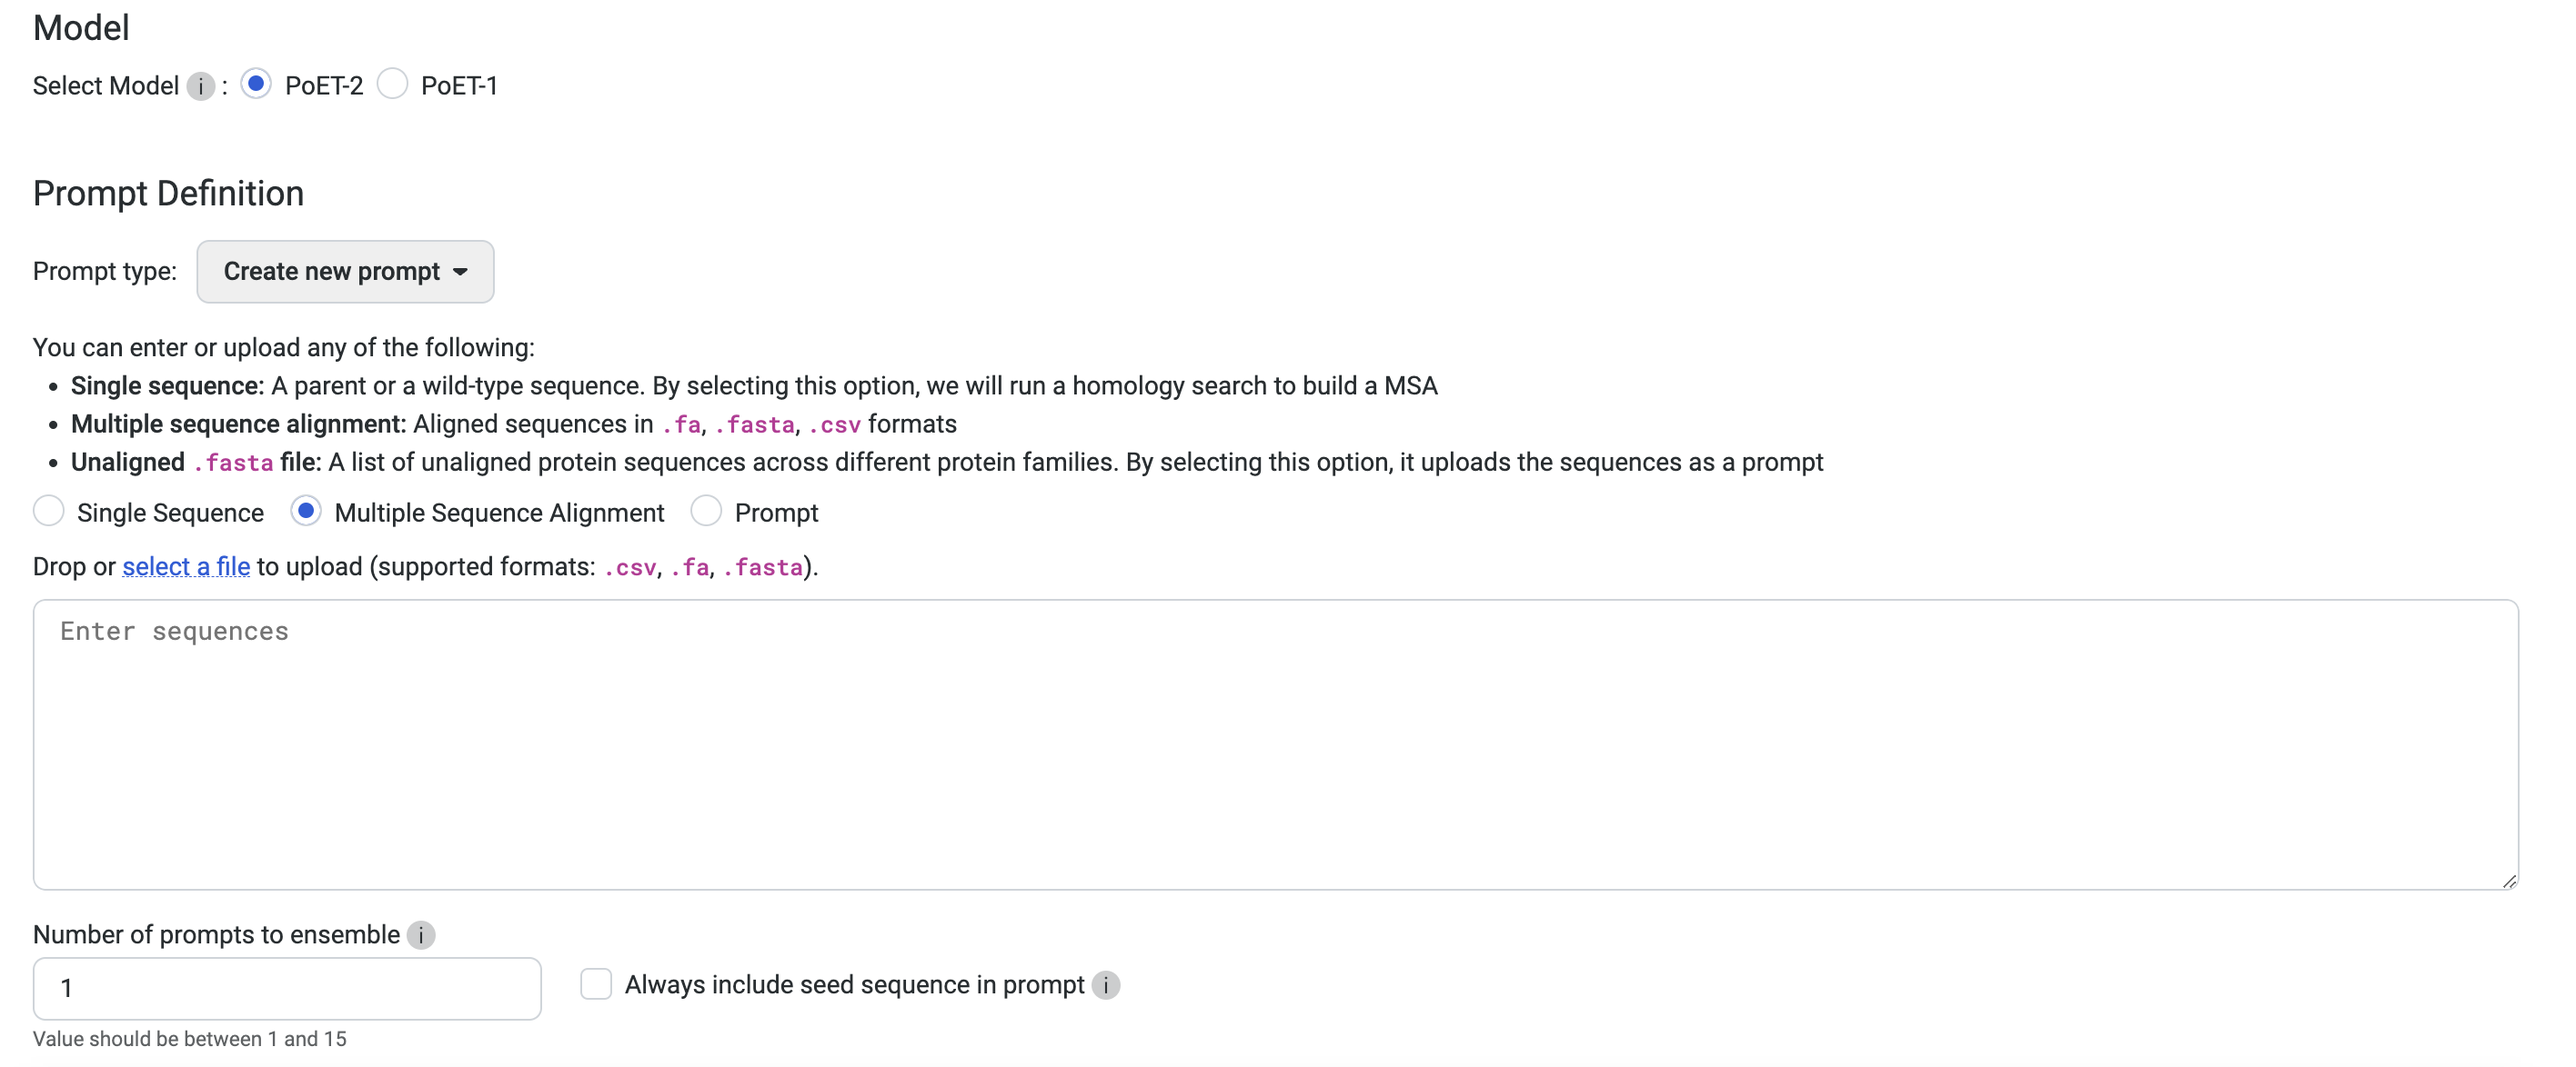
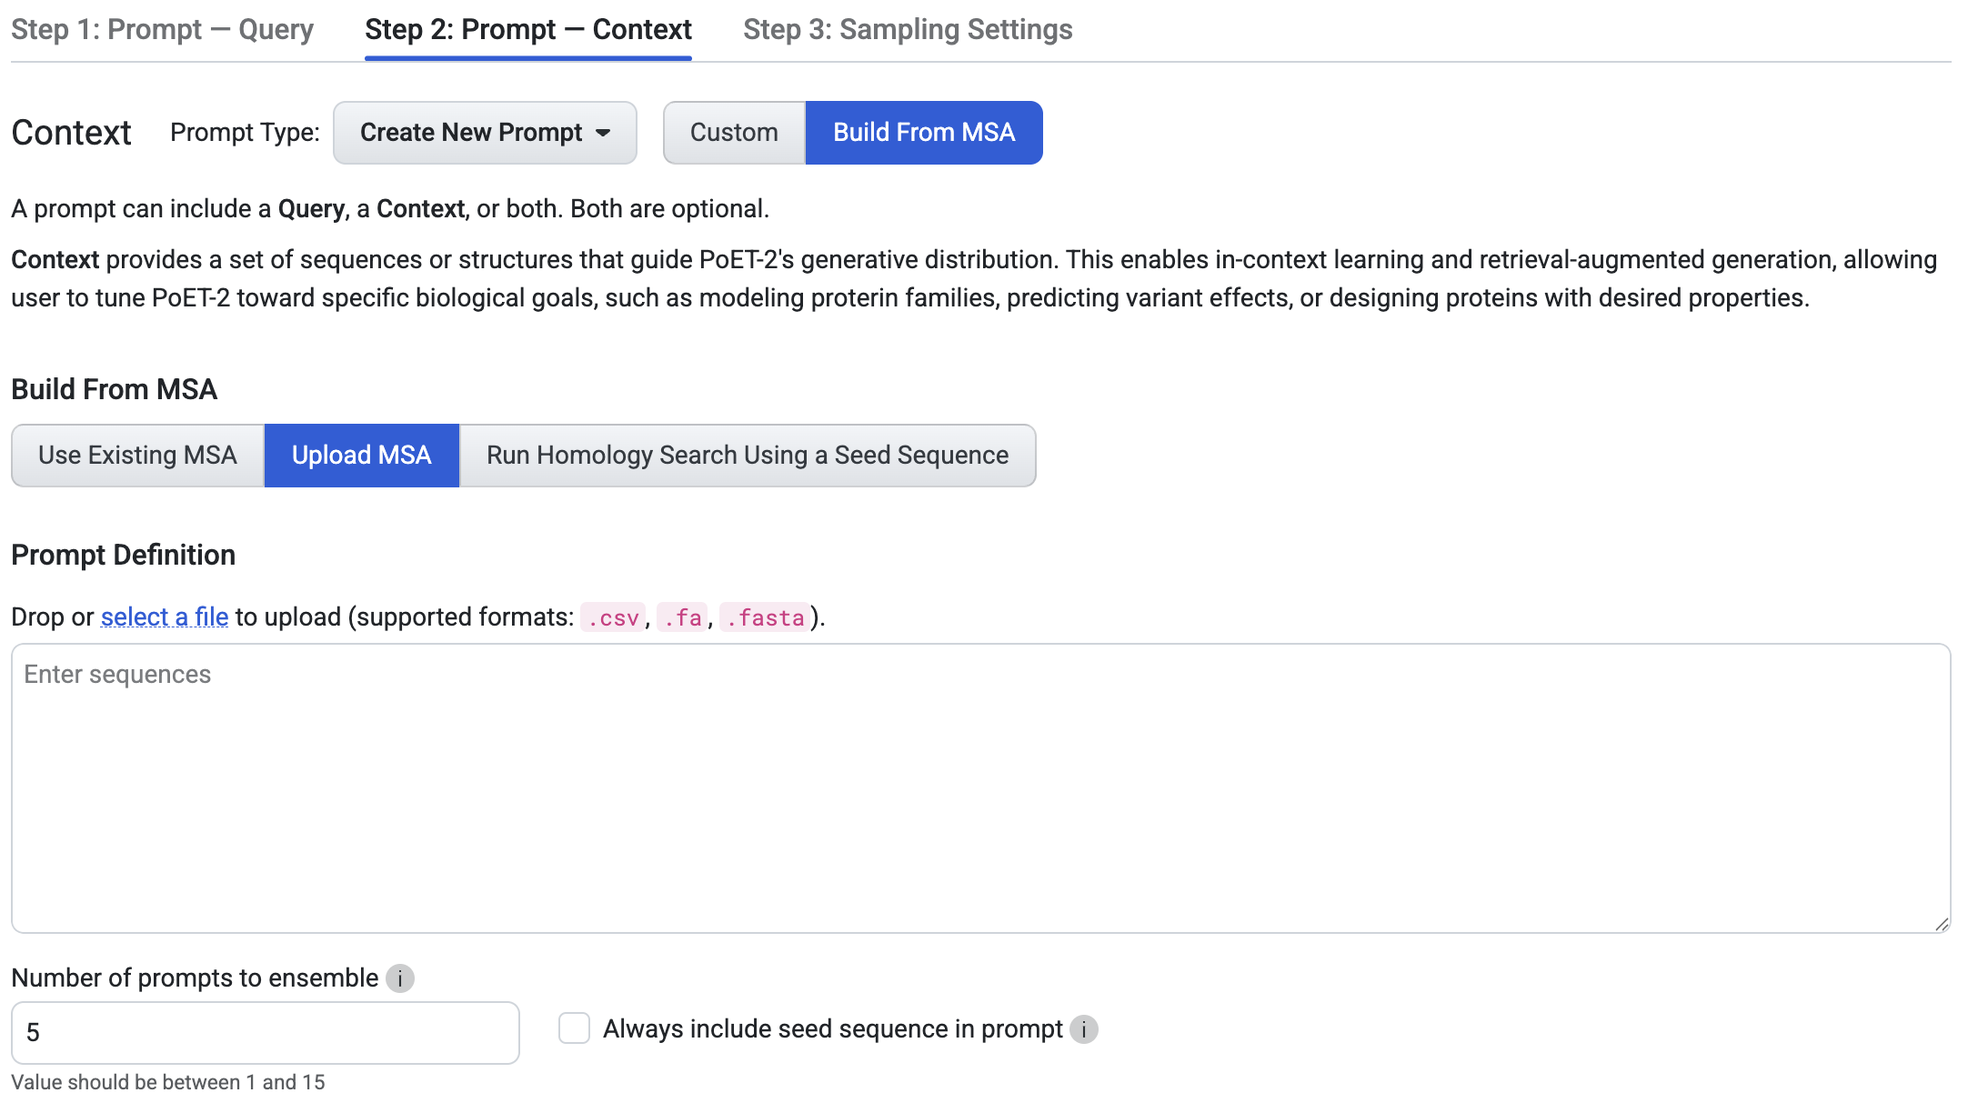
updated Generating a sequence section of generate-sequences.rst

diff --git a/source/web-app/poet/generate-sequences.rst b/source/web-app/poet/generate-sequences.rst
@@ -25,20 +25,22 @@ Generating a sequence
 
 Navigate to the tool by opening the **PoET** dropdown menu, then selecting **Generate Sequences.**
 
-Set your parameters to control sampling behavior. In particular, **temperature**, **top-p**, and **top-k** provide the ability to focus sampling around highly likely sequences. We recommend that you use either top-p or top-k on a given job, not both.
-
-.. image:: ../../_static/tools/poet/sampling-parameters.png
-   :alt: Sampling Parameters
-
 You can choose the model used to run the job. We recommend using PoET-2 for most use cases. 
 
 .. image:: ../../_static/tools/poet/choose-model.png
    :alt: Choose Model
 
+### Step 1: Prompt Query
+Refer to `Creating a Query <./prompts.rst#creating-a-query>`_ to learn about Prompt Query.
 
+### Step 2: Prompt Context
+#### 2.1 Build Custom Context
+If you want to create a custom context, please refer to `Creating a Context <./prompts.rst#creating-a-context>`_.
+
+#### 2.2 Build from MSA
 If you have an existing prompt, you may select it. Alternatively, add your custom MSA to the **Prompt Definition** field. You can input the sequence(s) directly, or upload an existing .fa, .fasta, or .csv file.
 
-If you do not have an existing MSA, input your target protein and select **Single Sequence**. OpenProtein will generate an MSA using a homology search against Uniref using mmseqs2 with default settings from ColabFold, then use the MSA to create a prompt. Please note that if you select **Single Sequence** when multiple sequences are entered, sequences after the first are ignored.
+If you do not have an existing MSA, you can select **Upload MSA**. If you select **Run Homology Search Using a Seed Sequence**, OpenProtein will generate an MSA using a homology search against Uniref using mmseqs2 with default settings from ColabFold, then use the MSA to create a prompt. Please note that when multiple sequences are entered, sequences after the first are ignored.
 
 Choose the number of prompts to ensemble. Select 1 to sample a single prompt, or increase the diversity of generated outputs by ensembling over 2-15 prompts. We suggest using 3-5 prompts.
 
@@ -50,12 +52,41 @@ Set sampling method fields. We suggest you start with the default settings, then
 .. image:: ../../_static/tools/poet/sampling-methods.png
    :alt: Sampling Methods
 
-You're ready to generate a custom sequence! Select **Run.** The job may take a few minutes depending on how busy the service is, how long your sequences are, and how many sequences you want to score.
+
+### Step 3: Sampling Settings
+Set your parameters to control sampling behavior. In particular, **temperature**, **top-p**, and **top-k** provide the ability to focus sampling around highly likely sequences. We recommend that you use either top-p or top-k on a given job, not both.
+
+.. image:: ../../_static/tools/poet/sampling-parameters.png
+   :alt: Sampling Parameters
+
+
+You're ready to generate a custom sequence! Click **Run.** The job may take a few minutes depending on how busy the service is, how long your sequences are, and how many sequences you want to score.
 
 A 400 (Bad request) error code may be due to the following:
 
-.. image:: ../../_static/tools/poet/results-table.png
-   :alt: Results Table
+.. list-table::
+   :header-rows: 1
+   :widths: 20 20
+   :align: left
+
+   * - Issue description
+     - Solution
+   * - Invalid PoET Job or Parent
+     - Re-enter prompt and try again.
+   * - Invalid prompt in PoET service
+     - Reupload prompt and try again. Refer to the article about `prompts <./prompts.rst>`_. Ensure minimum and maximum similarity parameters are not filtering out all sequences in prompt.
+   * - Invalid user input in align service
+     - Ensure you don't have
+
+       - a top_p>1
+       - a non-valid amino acid
+       - Maximum similarity < minimum similarity
+       If necessary, refer to the article on `sampling parameters <./prompts.rst#prompt-sampling-definitions>`_.
+   * - Invalid MSA (not aligned, etc)
+     - - Make sure your MSAs are aligned and rebuild MSA if necessary.
+       - If you have uploaded pre-computed MSA, confirm that formatting is correct and sequences are of equal length (use gap tokens “-”).
+       - If you are building from a seed sequence, try rebuilding the MSA
+
 
 Please contact `OpenProtein.AI support <https://www.openprotein.ai/contact>`_ if the suggested solutions don't resolve the issue.
 
@@ -67,6 +98,9 @@ Your results are presented as a table, with each generated sequence being assign
 Access local fitness landscapes using the substitution analysis buttons for each sequence. You can sort your results and download them using the **Export** button.
 
 Note: The PoET history page allows you to view and access past jobs, sorted by created date, job type, and status. Clicking the job ID will take you to the results page for that job.
+
+.. image:: ../../_static/tools/poet/results-table.png
+   :alt: Results Table
 
 Fine-tuning your results
 ------------------------

diff --git a/source/web-app/poet/substitution-analysis.rst b/source/web-app/poet/substitution-analysis.rst
@@ -46,7 +46,8 @@ A 400 (Bad request) error code may be due to the following:
    * - Invalid prompt in PoET service
      - Reupload prompt and try again. Refer to the article about `prompts <./prompts.rst>`_. Ensure minimum and maximum similarity parameters are not filtering out all sequences in prompt.
    * - Invalid user input in align service
-     - Ensure you don’t have
+     - Ensure you don't have
+
        - a top_p>1
        - a non-valid amino acid
        - Maximum similarity < minimum similarity

diff --git a/source/web-app/poet/rank-sequences.rst b/source/web-app/poet/rank-sequences.rst
@@ -52,7 +52,7 @@ A 400 (Bad request) error code may be due to the following:
    * - Invalid prompt in PoET service
      - Reupload prompt and try again. Refer to the article about `prompts <./prompts.rst>`_. Ensure minimum and maximum similarity parameters are not filtering out all sequences in prompt.
    * - Invalid user input in align service
-     - Ensure you don’t have
+     - Ensure you don't have
 
        - a top_p>1
        - a non-valid amino acid
